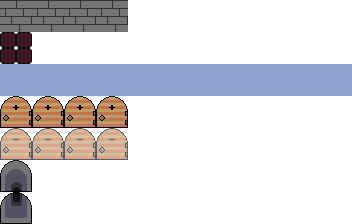
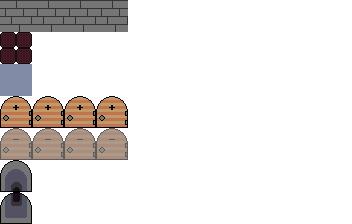
De-animate dragonwater

Changed region(s): [[0.0, 0.2812, 1.0, 0.4375], [0.0, 0.5625, 0.375, 0.7188]]

diff --git a/lib/mid/lvl.c b/lib/mid/lvl.c
@@ -49,7 +49,7 @@ static Tinfo tiles[] = {
 		.ok = true,
 		.anims = {
 			[0] = { .row = 0, .len = 4, .delay = 400/Ticktm, .w = 32, .h = 32, .d = 400/Ticktm  },
-			[2] = { .row = 2, .len = 11, .delay = 300/Ticktm, .w = 32, .h = 32, .d = 300/Ticktm },
+			[2] = { .row = 2, .len = 1, .delay = 1, .w = 32, .h = 32, .d = 1 },
 		},
 		.flags = Twater
 	},
@@ -66,7 +66,7 @@ static Tinfo tiles[] = {
 		.anims = {
 			[0] = { .row = 0, .len = 4, .delay = 400/Ticktm, .w = 32, .h = 32, .d = 400/Ticktm },
 			[1] = { .row = 3, .len = 4, .delay = 400/Ticktm, .w = 32, .h = 32, .d = 400/Ticktm },
-			[2] = { .row = 2, .len = 11, .delay = 300/Ticktm, .w = 32, .h = 32, .d = 300/Ticktm },
+			[2] = { .row = 2, .len = 1, .delay = 1, .w = 32, .h = 32, .d = 1 },
 		},
 		.flags = Tbdoor | Twater
 	},
@@ -83,7 +83,7 @@ static Tinfo tiles[] = {
 		.anims = {
 			[0] = { .row = 0, .len = 4, .delay = 400/Ticktm, .w = 32, .h = 32, .d = 400/Ticktm },
 			[2] = { .row = 4, .len = 4, .delay = 400/Ticktm, .w = 32, .h = 32, .d = 400/Ticktm },
-			[3] = { .row = 2, .len = 11, .delay = 300/Ticktm, .w = 32, .h = 32, .d = 300/Ticktm },
+			[3] = { .row = 2, .len = 1, .delay = 1, .w = 32, .h = 32, .d = 1 },
 		},
 		.flags = Tfdoor | Twater
 	},
@@ -100,7 +100,7 @@ static Tinfo tiles[] = {
 		.anims = {
 			[0] = { .row = 0, .len = 4, .delay = 400/Ticktm, .w = 32, .h = 32, .d = 400/Ticktm },
 			[1] = { .row = 5, .len = 1, .delay = 1, .w = 32, .h = 32, .d = 1 },
-			[3] = { .row = 2, .len = 11, .delay = 300/Ticktm, .w = 32, .h = 32, .d = 300/Ticktm },
+			[3] = { .row = 2, .len = 1, .delay = 1, .w = 32, .h = 32, .d = 1 },
 		},
 		.flags = Tdown | Twater
 	},
@@ -117,7 +117,7 @@ static Tinfo tiles[] = {
 		.anims = {
 			[0] = { .row = 0, .len = 4, .delay = 400/Ticktm, .w = 32, .h = 32, .d = 400/Ticktm },
 			[1] = { .row = 6, .len = 1, .delay = 1, .w = 32, .h = 32, .d = 1 },
-			[3] = { .row = 2, .len = 11, .delay = 300/Ticktm, .w = 32, .h = 32, .d = 300/Ticktm },
+			[3] = { .row = 2, .len = 1, .delay = 1, .w = 32, .h = 32, .d = 1 },
 		},
 		.flags = Tup | Twater
 	},
